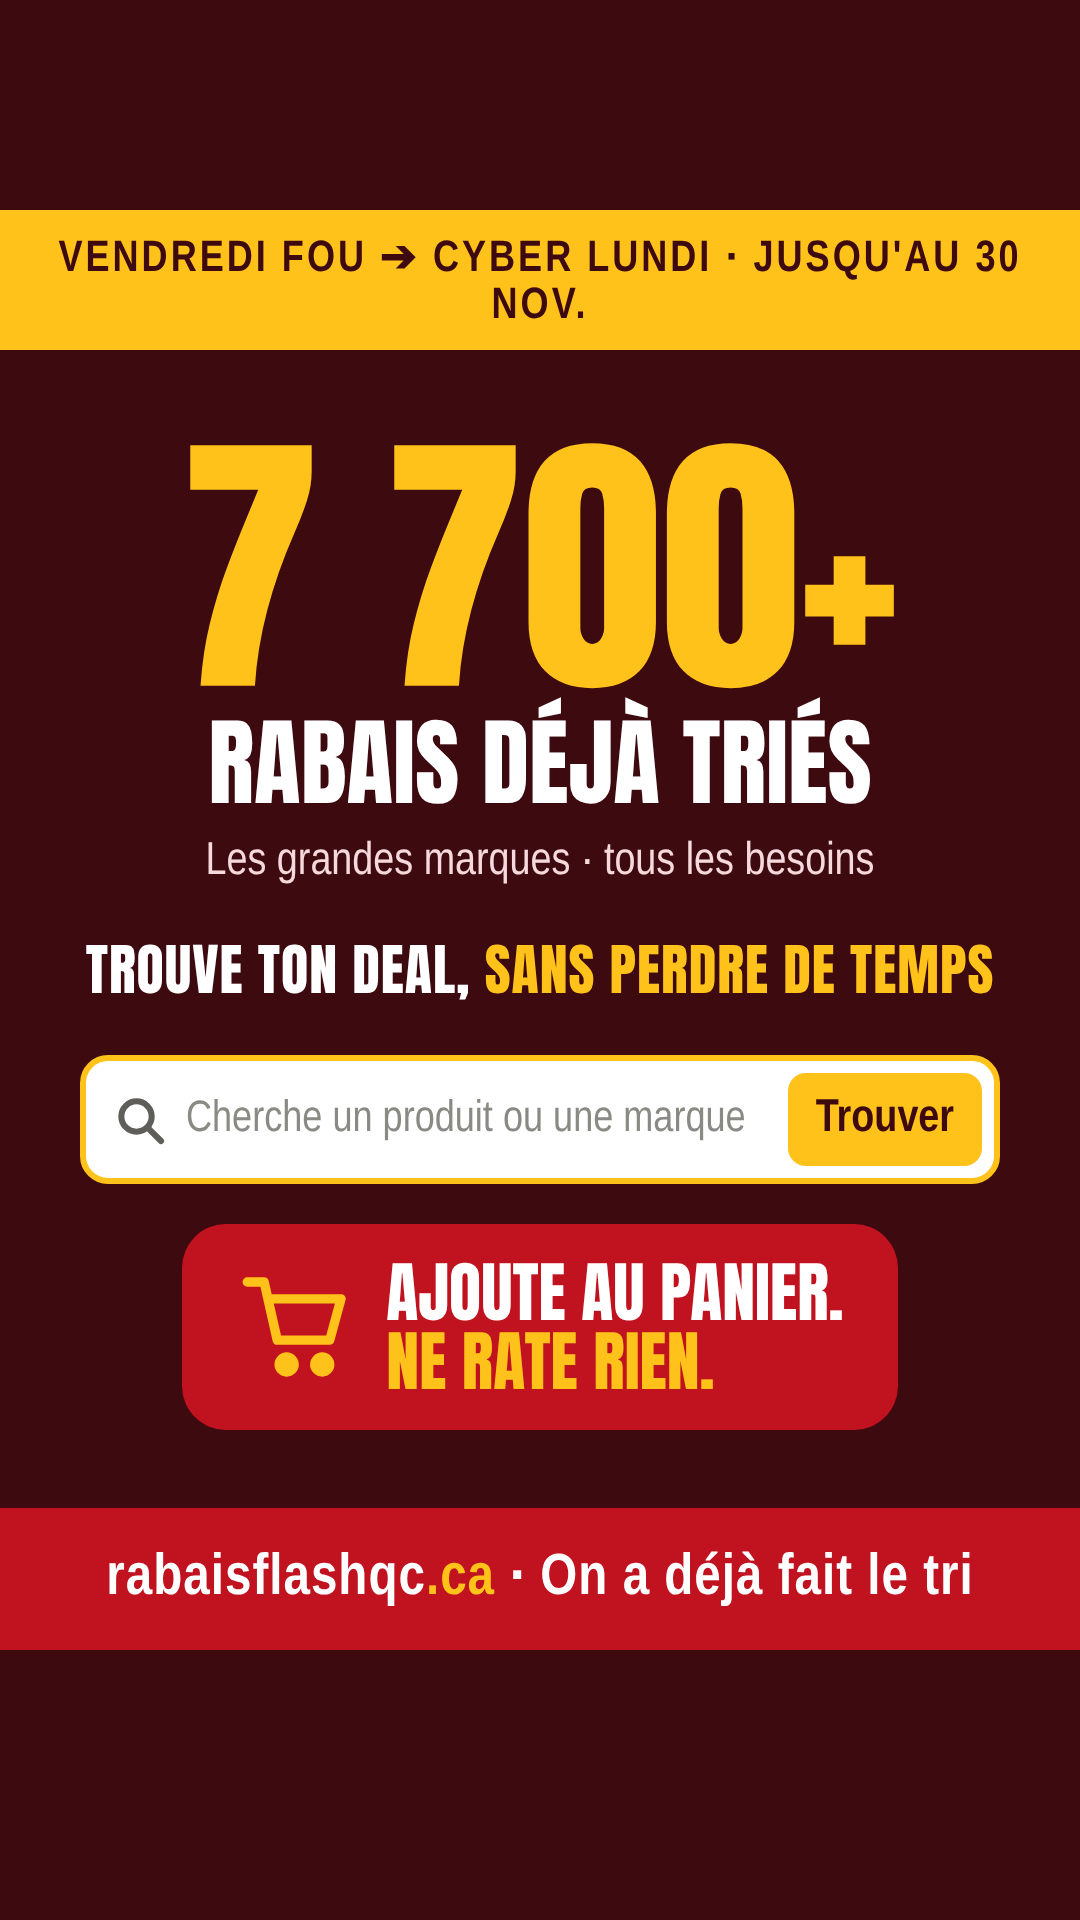
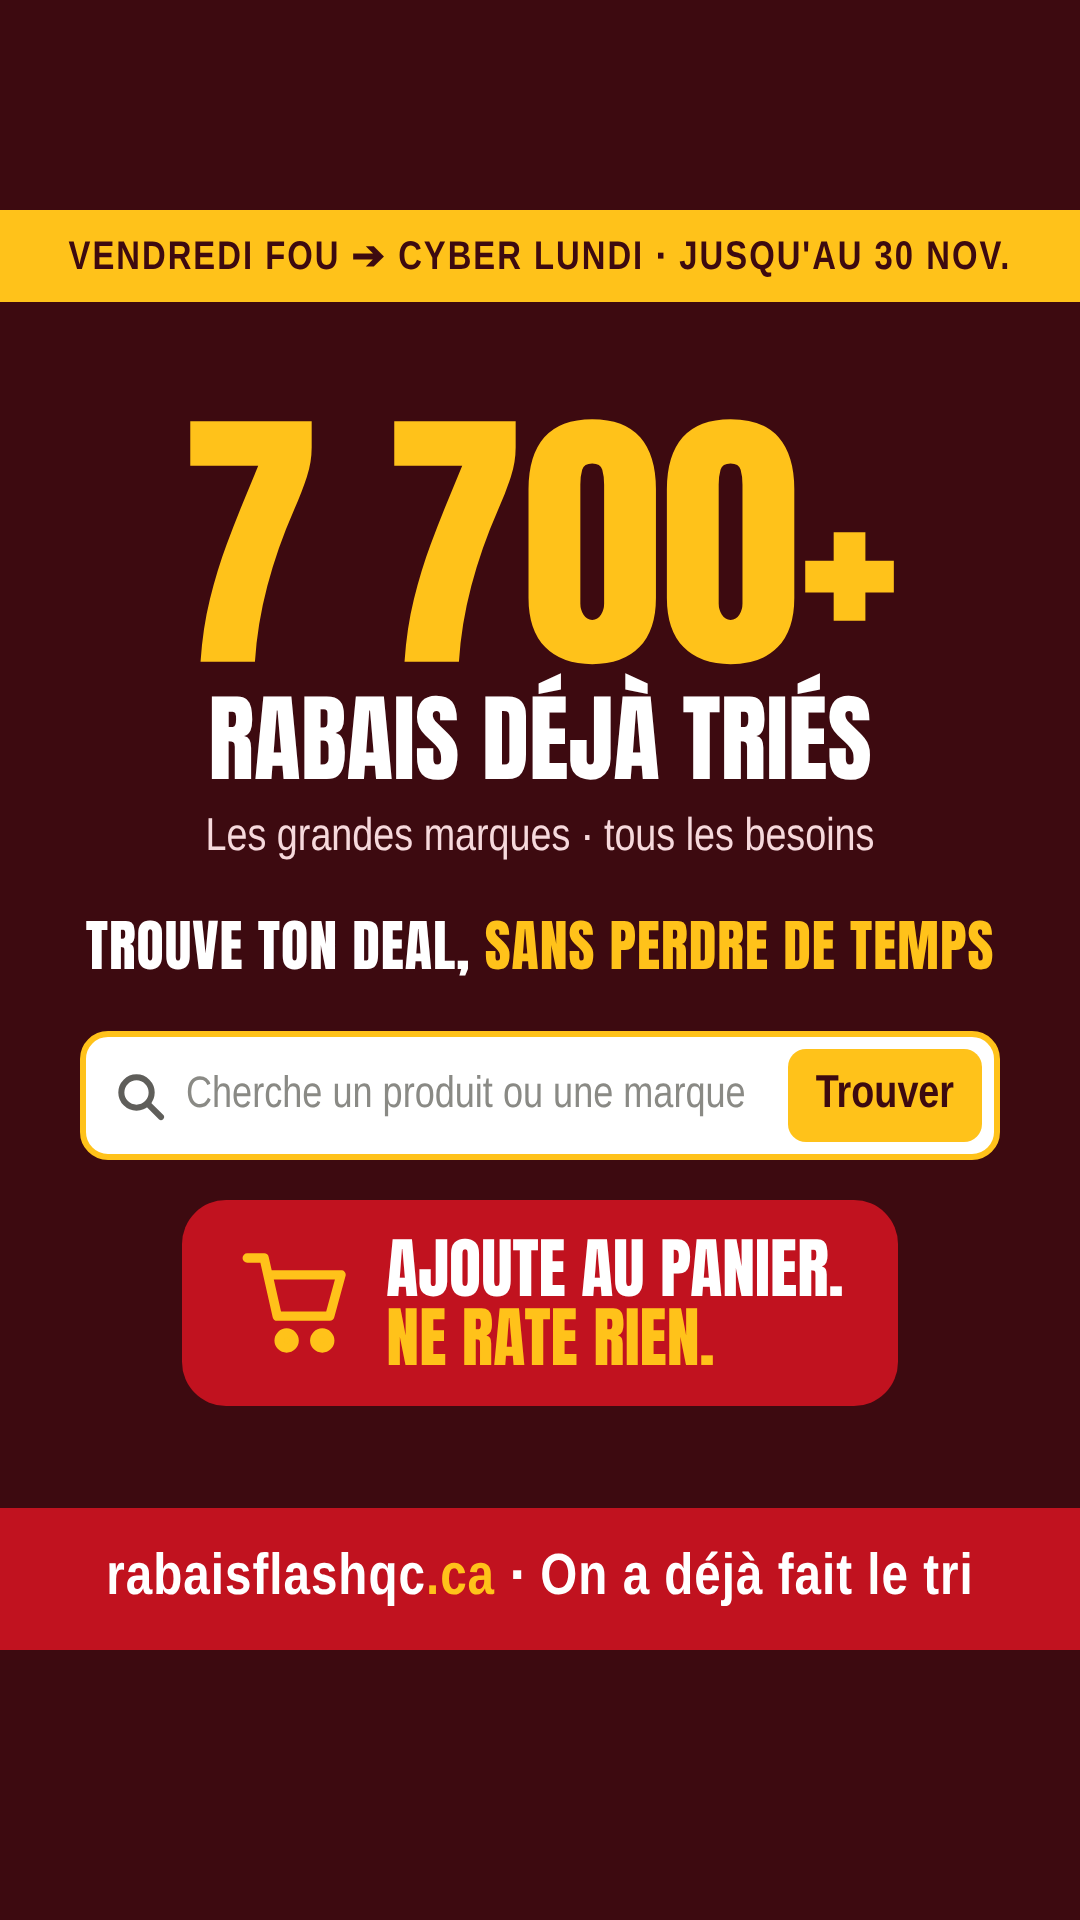
Pub BFCM: bandeau sur une ligne

Changed region(s): [[0.0611, 0.2188, 0.9472, 0.75], [0.0, 0.125, 1.0, 0.1875]]

diff --git a/pub-bfcm-image.py b/pub-bfcm-image.py
@@ -10,7 +10,7 @@ def html(h, tall):
     cs = 120 if tall else 90
     return f"""<!doctype html><meta charset=utf-8><style>
 *{{box-sizing:border-box;margin:0;padding:0}}body{{width:1080px;height:{h}px;background:#3D0A10;font-family:'Liberation Sans Narrow','Arial Narrow',Arial,sans-serif;font-weight:700;color:#fff;display:flex;flex-direction:column;overflow:hidden;padding:{'210px 0 270px' if tall else '0'}}}
-.s{{background:#FFC21A;color:#3D0A10;text-align:center;font-size:44px;padding:20px 10px;letter-spacing:3px}}
+.s{{background:#FFC21A;color:#3D0A10;text-align:center;font-size:40px;padding:22px 10px;letter-spacing:2px;white-space:nowrap}}
 .m{{flex:1;display:flex;flex-direction:column;align-items:center;justify-content:center;text-align:center;padding:0 50px}}
 .n{{font-family:Anton,Impact,sans-serif;font-weight:400;font-size:{280 if tall else 200}px;line-height:1;color:#FFC21A}}
 .t{{font-family:Anton,Impact,sans-serif;font-weight:400;font-size:{96 if tall else 76}px;line-height:1.02;margin-top:6px}}
